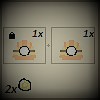
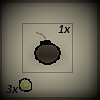
Add files via upload

diff --git a/src/Game.java b/src/Game.java
@@ -28,27 +28,12 @@ public class Game implements IGame {
 		
 		Graficos.imprimirGame(this);
 	}
-
-	public void esperarJogada() {/*
-		synchronized(Graficos) {
-			try {
-				Graficos.wait();
-			} catch (InterruptedException e) {
-				System.out.println(e.getMessage());
-				System.out.println("An unexpected error happened and the game will be closed.");
-			}			
-		}*/
-	}
-	
-	public void verificarJogada() {
-	}
-
-	
-	public void verificarFinal() {
-	}
 	
 	public int proximoTurno() {
-		return (turno+1)%Configuracao.getNumeroDeJogadores();
+		if (turno + 1 >= Configuracao.getNumeroDeJogadores())
+			return 0;
+		else
+			return turno+1;
 	}
 	
 	@Override
@@ -80,42 +65,40 @@ public class Game implements IGame {
 	}
 
 	@Override
-	public void actionPerformed(ActionEvent e) {
-		synchronized(this) {			
-			int gemasAtual = Jogadores[turno].getGemasAtual();
-			int gemasTotal = Jogadores[turno].getGemasTotal();
-			String conteudo = Tabuleiro.getCell(Integer.parseInt(e.getActionCommand())).getConteudo().getClass().getName();
-			System.out.println(conteudo);
-			
-			switch (conteudo) {
-			case "Gema":
-				gemasAtual++;
-				gemasTotal++;
-				Jogadores[turno].setGemasAtual(gemasAtual);
-				Jogadores[turno].setGemasTotal(gemasTotal);
-				break;
-			case "Bomba":
-				Jogadores[turno].setGemasAtual(0);
-				break;
-			default:
-				break;
-			}
-			
-			if (Configuracao.getGanhaQuemPegouMais()) {
-				if (Jogadores[turno].getGemasTotal() > vencedor.getGemasTotal())
-					vencedor = Jogadores[turno];
-			} else if (Configuracao.getGanhaQuemTemMais()) {
-				if (Jogadores[turno].getGemasAtual() > vencedor.getGemasAtual())
-					vencedor = Jogadores[turno];
-			}
-			
-			celulasReveladas++;
-			if (acabou()) {
-				Graficos.imprimirVencedor(vencedor);
-			} else {
-				turno = proximoTurno();				
-			}						
+	public void actionPerformed(ActionEvent e) {			
+		int gemasAtual = Jogadores[turno].getGemasAtual();
+		int gemasTotal = Jogadores[turno].getGemasTotal();
+		String conteudo = Tabuleiro.getCell(Integer.parseInt(e.getActionCommand())).getConteudo().getClass().getName();
+		System.out.println(conteudo);
+		
+		switch (conteudo) {
+		case "Gema":
+			gemasAtual++;
+			gemasTotal++;
+			Jogadores[turno].setGemasAtual(gemasAtual);
+			Jogadores[turno].setGemasTotal(gemasTotal);
+			break;
+		case "Bomba":
+			Jogadores[turno].setGemasAtual(0);
+			break;
+		default:
+			break;
 		}
+		
+		if (Configuracao.getGanhaQuemPegouMais()) {
+			if (Jogadores[turno].getGemasTotal() > vencedor.getGemasTotal())
+				vencedor = Jogadores[turno];
+		} else if (Configuracao.getGanhaQuemTemMais()) {
+			if (Jogadores[turno].getGemasAtual() > vencedor.getGemasAtual())
+				vencedor = Jogadores[turno];
+		}
+		
+		celulasReveladas++;
+		if (acabou()) {
+			Graficos.imprimirVencedor(vencedor);
+		} else {
+			turno = proximoTurno();				
+		}	
 	}
 
 	@Override

diff --git a/src/GUI.java b/src/GUI.java
@@ -1,5 +1,6 @@
 import java.awt.Color;
 import java.awt.Dimension;
+import java.awt.Font;
 import java.awt.GridLayout;
 import java.awt.event.ActionEvent;
 import java.awt.event.ActionListener;
@@ -16,6 +17,7 @@ import interfaces.ISettings;
 import minorObjects.Background;
 import minorObjects.IconButton;
 import minorObjects.IconLabel;
+import minorObjects.PlayerLabel;
 import minorObjects.SkillButton;
 
 public class GUI extends JFrame implements IGUI, ActionListener {
@@ -81,16 +83,17 @@ public class GUI extends JFrame implements IGUI, ActionListener {
 		int size = game.getSettings().getTamanhoDoTabuleiro();	
 		int players = game.getSettings().getNumeroDeJogadores();
 		
-		IconLabel[] playerLabel = new IconLabel[players];
-		for(int i = 0; i < players; i++)
-			playerLabel[i] = new IconLabel(IMG_PATH + "player");
+		PlayerLabel[] playerLabel = new PlayerLabel[players];
+		for(int i = 0; i < players; i++) {
+			playerLabel[i] = new PlayerLabel(game.getPlayers()[i], game);
+		}
 		
 		JPanel panelPlayers = new JPanel();
 		panelPlayers.setBorder(BorderFactory.createEmptyBorder());
 		panelPlayers.setLayout(new BoxLayout(panelPlayers, BoxLayout.Y_AXIS));
 		for(int i = 0; i < players; i++)
-			panelPlayers.add(playerLabel[i]);	
-
+			panelPlayers.add(playerLabel[i]);
+		
 		SkillButton[] skillButton = new SkillButton[5];
 		for(int i = 0; i < 5; i++) {
 			skillButton[i] = new SkillButton(i+1, IMG_PATH + "skill" + Integer.toString(i), game);
@@ -108,13 +111,16 @@ public class GUI extends JFrame implements IGUI, ActionListener {
 		for(int i = 0; i < size*size; i++) {
 			cellButton[i] = new IconButton(IMG_PATH + "cell");
 			cellButton[i].setActionCommand(Integer.toString(i));
-			cellButton[i].addActionListener(game);
-			cellButton[i].addActionListener(cellButton[i]);
+			cellButton[i].addActionListener(cellButton[i]);	
+			
+			for(int j = 0; j < players; j++)
+				cellButton[i].addActionListener(playerLabel[j]);
+			cellButton[i].addActionListener(game);	
 			cellButton[i].addActionListener(skillButton[0]);
 			cellButton[i].addActionListener(skillButton[1]);
 			cellButton[i].addActionListener(skillButton[2]);
 			cellButton[i].addActionListener(skillButton[3]);
-			cellButton[i].addActionListener(skillButton[4]);
+			cellButton[i].addActionListener(skillButton[4]);	
 		}
 		
 		JPanel panelCells = new JPanel();

diff --git a/src/minorObjects/PlayerLabel.java b/src/minorObjects/PlayerLabel.java
@@ -1,0 +1,39 @@
+package minorObjects;
+
+import java.awt.Font;
+import java.awt.event.ActionEvent;
+import java.awt.event.ActionListener;
+
+import javax.swing.BorderFactory;
+
+import interfaces.IGame;
+import interfaces.IPlayer;
+
+public class PlayerLabel extends IconLabel implements ActionListener {
+	private Font Font;
+	private IPlayer Player;
+	private IGame Game;
+	private static final long serialVersionUID = 1L;
+
+	public PlayerLabel(IPlayer Player, IGame Game) {
+		super(null);
+		this.Player = Player;
+		this.Game = Game;
+		this.Font = new Font(null, java.awt.Font.BOLD, 24);
+		setFont(Font);
+		setText("Gems: " + Player.getGemasAtual() + " / " + Player.getGemasTotal());
+		if (Game.proximoTurno() == Player.getID())
+			setBorder(BorderFactory.createTitledBorder(null, " > Player " + Integer.toString(Player.getID()), 0, 0, Font));
+		else
+			setBorder(BorderFactory.createTitledBorder(null, "Player " + Integer.toString(Player.getID()), 0, 0, Font));
+	}
+
+	@Override
+	public void actionPerformed(ActionEvent e) {
+		setText("Gems: " + Player.getGemasAtual() + " / " + Player.getGemasTotal());
+		if (Game.getTurno()+1 == Player.getID())
+			setBorder(BorderFactory.createTitledBorder(null, " > Player " + Integer.toString(Player.getID()), 0, 0, Font));
+		else
+			setBorder(BorderFactory.createTitledBorder(null, "Player " + Integer.toString(Player.getID()), 0, 0, Font));	
+	}
+}

diff --git a/src/interfaces/IGame.java b/src/interfaces/IGame.java
@@ -2,11 +2,8 @@ package interfaces;
 import java.awt.event.ActionListener;
 
 public interface IGame extends ActionListener {
-	public void esperarJogada();
-	public void verificarJogada();
-	public void verificarFinal();
-	public int proximoTurno();
 	public boolean acabou();
+	public int proximoTurno();
 	public int getTurno();
 	public ISettings getSettings();
 	public IBoard getBoard();	

diff --git a/src/minorObjects/SkillButton.java b/src/minorObjects/SkillButton.java
@@ -25,7 +25,6 @@ public class SkillButton extends IconButton {
 	public void actionPerformed(ActionEvent e) {
 		if (game.getPlayers()[game.proximoTurno()].getGemasAtual() >= skillCost) {
 				setEnabled(true);
-				System.out.println("Skill " + skillCost + " disponivel!");
 		} else {
 				setEnabled(false);
 		}	

diff --git a/src/minorObjects/IconLabel.java b/src/minorObjects/IconLabel.java
@@ -4,7 +4,7 @@ import javax.swing.BorderFactory;
 import javax.swing.ImageIcon;
 import javax.swing.JLabel;
 
-public class IconLabel extends JLabel {
+public class IconLabel extends JLabel{
 	private static final long serialVersionUID = 1L;
 
 	public IconLabel(String imgPath) {
